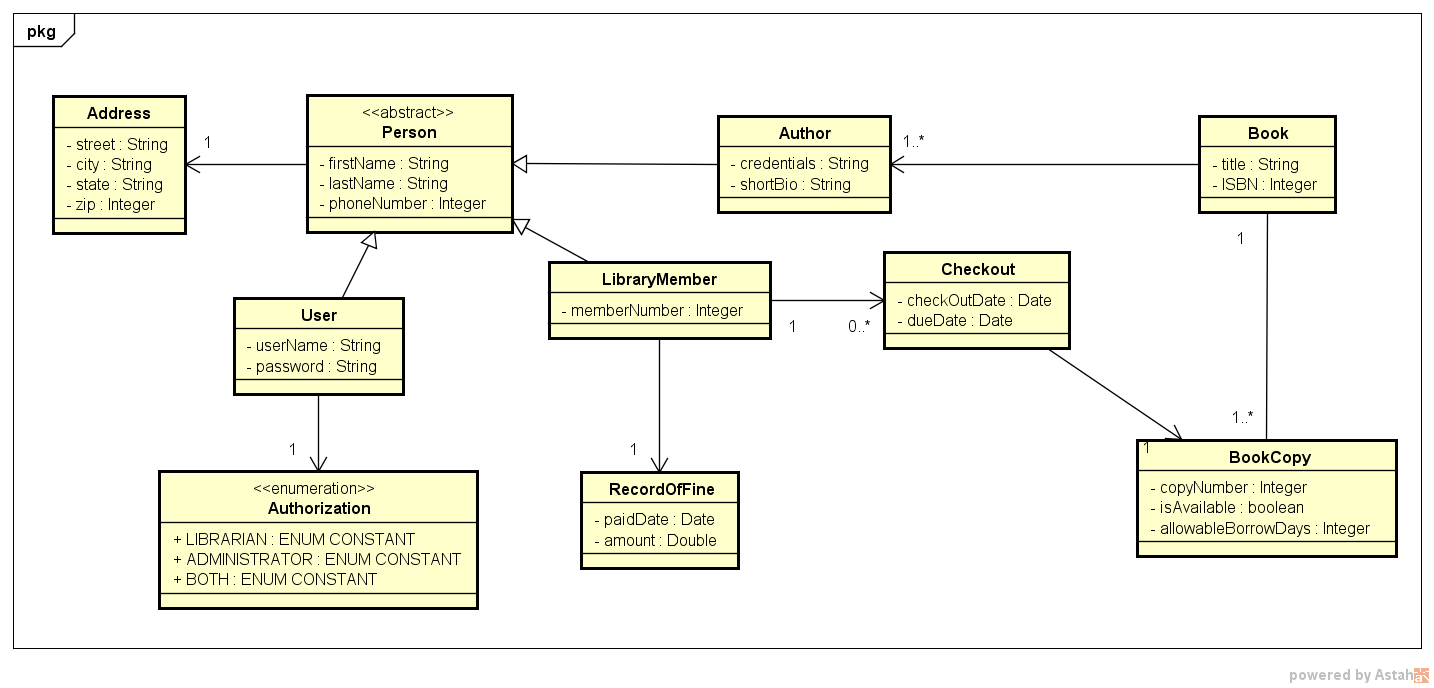
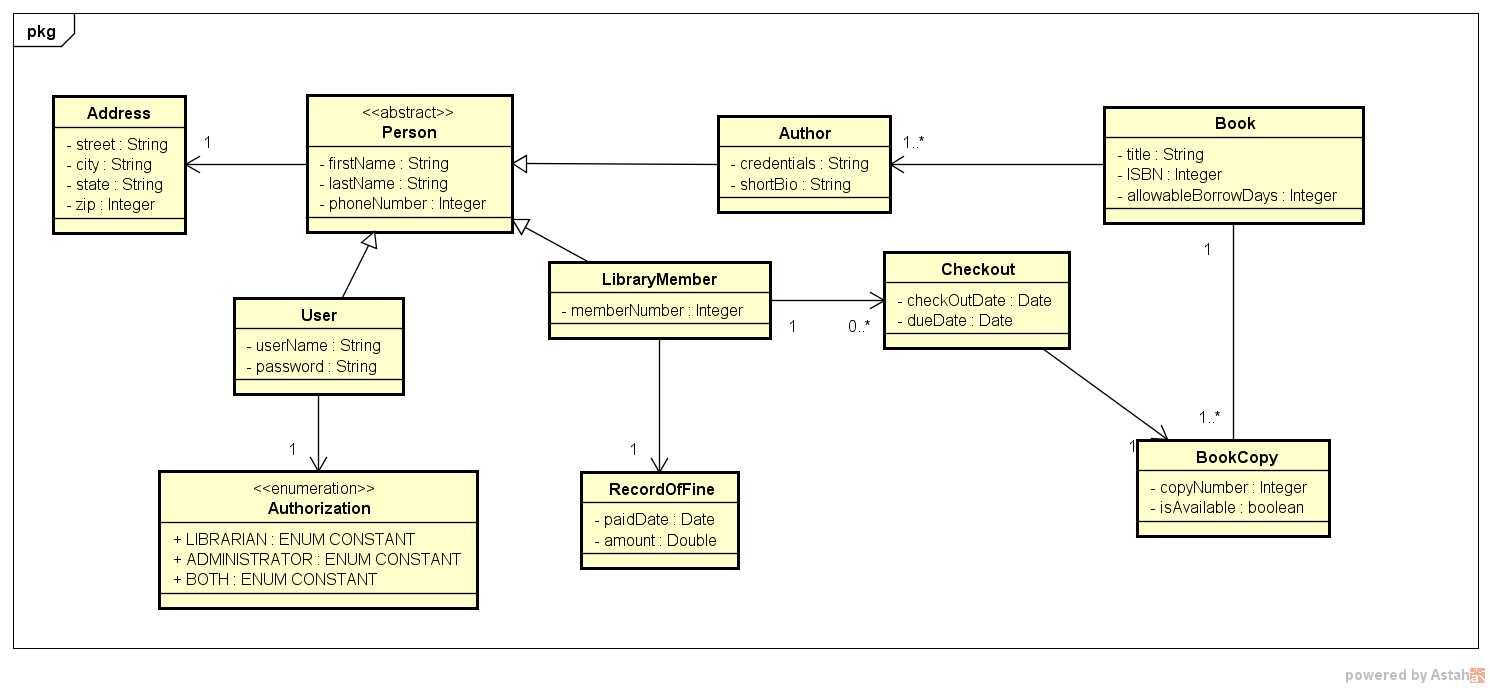
updated the class diagram. created the Data access class that will create test data.

diff --git a/src/librarymanagement/dataaccess/DataAccess.java b/src/librarymanagement/dataaccess/DataAccess.java
@@ -1,0 +1,174 @@
+package librarymanagement.dataaccess;
+
+import java.util.ArrayList;
+import java.util.Arrays;
+import java.util.List;
+
+import librarymanagement.business.Address;
+import librarymanagement.business.Author;
+import librarymanagement.business.Book;
+import librarymanagement.business.BookCopy;
+import librarymanagement.business.Checkout;
+import librarymanagement.business.LibraryMember;
+
+public class DataAccess {
+
+	public static void main(String[] args) {
+
+		System.out.println("Creating Library Members objects....");
+		//create Library Members
+		LibraryMember lib1 = new LibraryMember();
+		lib1.setMemberNumber(1);
+		lib1.setFirstName("firstname1");
+		lib1.setLastName("lastname1");
+		lib1.setPhoneNumber(12345);
+		Address add1 = new Address();
+		add1.setStreet("street1");
+		add1.setCity("city1");
+		add1.setState("state1");
+		add1.setZip(123);
+		lib1.setAddress(add1);
+		lib1.setCheckoutRecords(new ArrayList<Checkout>());
+		
+		LibraryMember lib2 = new LibraryMember();
+		lib2.setMemberNumber(2);
+		lib2.setFirstName("firstname2");
+		lib2.setLastName("lastname2");
+		lib2.setPhoneNumber(12345);
+		Address add2 = new Address();
+		add2.setStreet("street2");
+		add2.setCity("city2");
+		add2.setState("state2");
+		add2.setZip(123);
+		lib2.setAddress(add2);
+		lib2.setCheckoutRecords(new ArrayList<Checkout>());
+		
+		LibraryMember lib3 = new LibraryMember();
+		lib3.setMemberNumber(3);
+		lib3.setFirstName("firstname3");
+		lib3.setLastName("lastname3");
+		lib3.setPhoneNumber(12345);
+		Address add3 = new Address();
+		add3.setStreet("street3");
+		add3.setCity("city3");
+		add3.setState("state3");
+		add3.setZip(123);
+		lib3.setAddress(add3);
+		lib3.setCheckoutRecords(new ArrayList<Checkout>());
+		
+		LibraryMember lib4 = new LibraryMember();
+		lib4.setMemberNumber(4);
+		lib4.setFirstName("firstname4");
+		lib4.setLastName("lastname4");
+		lib4.setPhoneNumber(12345);
+		Address add4 = new Address();
+		add4.setStreet("street4");
+		add4.setCity("city4");
+		add4.setState("state4");
+		add4.setZip(123);
+		lib4.setAddress(add4);
+		lib4.setCheckoutRecords(new ArrayList<Checkout>());
+		
+		System.out.println("Creating book objects.");
+		// Create books
+		Book b1 = new Book();
+		b1.setTitle("book1");
+		b1.setISBN(1);
+		b1.setAllowableDaysToBorrow(3);
+		
+		BookCopy bc11 = new BookCopy();
+		bc11.setAvailable(false);
+		bc11.setBook(b1);
+		bc11.setCopyNumber(1);
+		BookCopy bc12 = new BookCopy();
+		bc11.setAvailable(true);
+		bc11.setBook(b1);
+		bc11.setCopyNumber(5);
+		BookCopy bc13 = new BookCopy();
+		bc11.setAvailable(true);
+		bc11.setBook(b1);
+		bc11.setCopyNumber(6);
+		
+		
+		b1.getBookCopy().add(bc11);
+		b1.getBookCopy().add(bc12);
+		b1.getBookCopy().add(bc13);
+		Author a1 = new Author();
+		a1.setFirstName("authorfirstname1");
+		a1.setLastName("authorfirstname1");
+		b1.getAuthors().add(a1);
+		Checkout c1 = new Checkout(bc11);
+		lib1.getCheckoutRecords().add(c1);
+		
+		Book b2 = new Book();
+		b2.setTitle("book2");
+		b2.setISBN(2);
+		b2.setAllowableDaysToBorrow(3);
+		
+		BookCopy bc21 = new BookCopy();
+		bc21.setAvailable(false);
+		bc21.setBook(b2);
+		bc21.setCopyNumber(7);
+		BookCopy bc22 = new BookCopy();
+		bc21.setAvailable(false);
+		bc21.setBook(b2);
+		bc21.setCopyNumber(8);
+		BookCopy bc23 = new BookCopy();
+		bc21.setAvailable(false);
+		bc21.setBook(b2);
+		bc21.setCopyNumber(9);
+		
+		b2.getBookCopy().add(bc21);	
+		b2.getBookCopy().add(bc22);
+		b2.getBookCopy().add(bc23);	
+		Author a2 = new Author();
+		a2.setFirstName("authorfirstname2");
+		a2.setLastName("authorfirstname2");
+		b2.getAuthors().add(a2);
+		Checkout c2 = new Checkout(bc21);
+		lib2.getCheckoutRecords().add(c2);
+		
+		Book b3 = new Book();
+		b3.setTitle("book3");
+		b3.setISBN(3);
+		b3.setAllowableDaysToBorrow(3);
+		BookCopy bc3 = new BookCopy();
+		bc3.setAvailable(false);
+		bc3.setBook(b3);
+		bc3.setCopyNumber(3);
+		b3.getBookCopy().add(bc3);
+		Author a3 = new Author();
+		a3.setFirstName("authorfirstname3");
+		a3.setLastName("authorfirstname3");
+		b3.getAuthors().add(a3);
+		Checkout c3 = new Checkout(bc3);
+		lib3.getCheckoutRecords().add(c3);
+		
+		Book b4 = new Book();
+		b4.setTitle("book4");
+		b4.setISBN(4);
+		b4.setAllowableDaysToBorrow(4);
+		BookCopy bc4 = new BookCopy();
+		bc4.setAvailable(false);
+		bc4.setBook(b4);
+		bc4.setCopyNumber(4);
+		b4.getBookCopy().add(bc4);
+		Author a4 = new Author();
+		a4.setFirstName("authorfirstname4");
+		a4.setLastName("authorfirstname4");
+		b4.getAuthors().add(a4);
+		Checkout c4 = new Checkout(bc4);
+		lib4.getCheckoutRecords().add(c4);
+		
+		System.out.println("Savings library members");
+		List<LibraryMember> libMembers = Arrays.asList(lib1, lib2, lib3, lib4);
+		LibraryMemberService libService = new LibraryMemberService();
+		libService.save(libMembers);
+		
+		System.out.println("Savings books");
+		BookService bookService = new BookService();
+		bookService.save(Arrays.asList(b1,b2,b3,b4));
+		
+	}
+
+}
